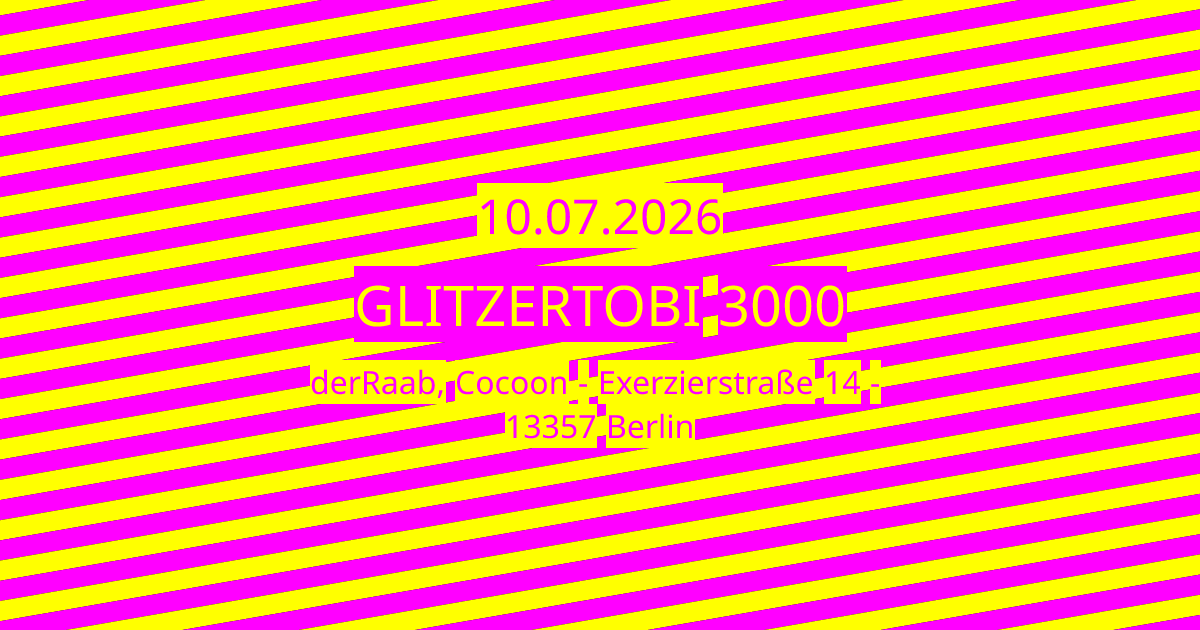
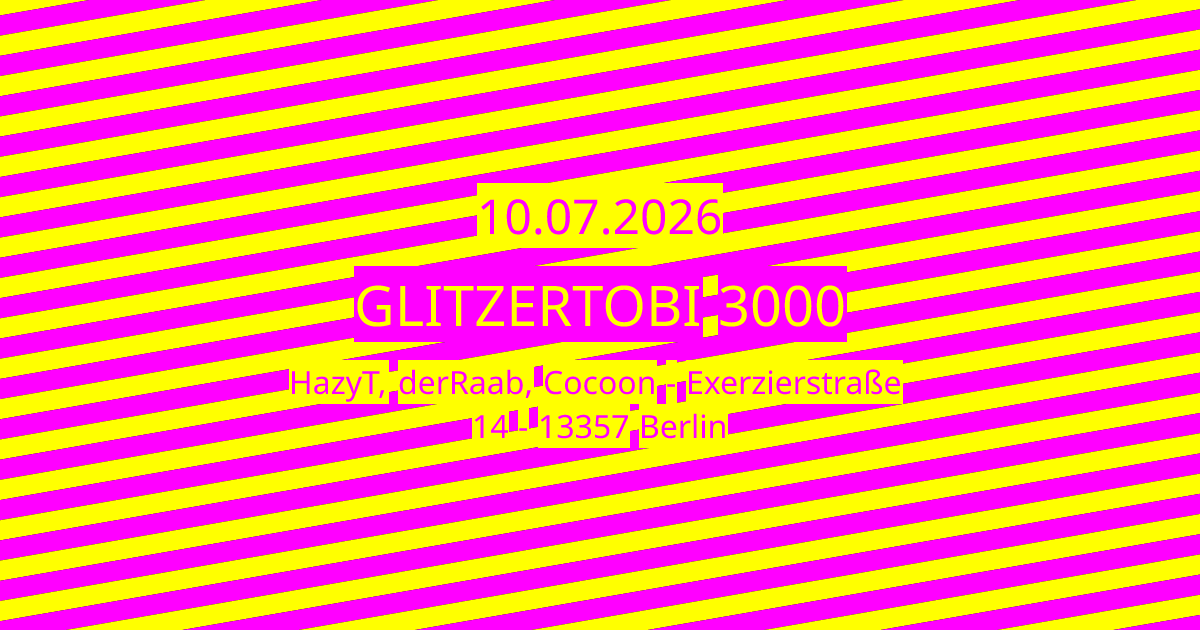
Added HazyT

Changed region(s): [[0.2467, 0.573, 0.7708, 0.7238]]

diff --git a/docs/index.html b/docs/index.html
@@ -26,13 +26,13 @@
     <meta property="og:description" content="About unicorns and DJ dates. My name is DERRAAB, and I’ve been passionate about electronic music for as long as I can remember.">
     
     <!-- Primary image - 1200x630 (1.91:1 aspect ratio) -->
-    <meta property="og:image" content="https://onlyraab.com/img/social/index-1200x630.jpg?v=1783860174612">
+    <meta property="og:image" content="https://onlyraab.com/img/social/index-1200x630.jpg?v=1784194235014">
     <meta property="og:image:width" content="1200">
     <meta property="og:image:height" content="630">
     <meta property="og:image:type" content="image/jpeg">
     
     <!-- Secondary image - 600x600 (square aspect ratio) -->
-    <meta property="og:image" content="https://onlyraab.com/img/social/index-600x600.jpg?v=1783860174612">
+    <meta property="og:image" content="https://onlyraab.com/img/social/index-600x600.jpg?v=1784194235014">
     <meta property="og:image:width" content="600">
     <meta property="og:image:height" content="600">
     <meta property="og:image:type" content="image/jpeg">
@@ -44,7 +44,7 @@
     <!-- Twitter will use og:image, og:title, og:description automatically -->
     
     <!-- Load the compiled LESS styles -->
-    <link rel="stylesheet" href="index.css?v=1783860174612">
+    <link rel="stylesheet" href="index.css?v=1784194235014">
 </head>
 <body class="body--index">
     <header>
@@ -79,7 +79,7 @@
         <section class="all-dates" id="all-dates">
 <section class="dates">
 <a href="dates/2026-07-14.html" class="date" data-iso-date="2026-07-14"><h3>14.07.2026</h3><h4>://Sektdatscha</h4><p>Sommer, Sonne, Semetschki - Durakstammtisch @ ://about blank</p><h5>DJs:</h5><ul><li>vanX</li><li>Tiger</li><li>Lena Brumby</li><li>derRaab</li></ul><h5>Location:</h5><p>://about blank - Markgrafendamm 24c - Berlin</p></a>
-<a href="dates/2026-07-10.html" class="date" data-iso-date="2026-07-10"><h3>10.07.2026</h3><h4>Glitzertobi 3000</h4><h5>DJs:</h5><ul><li>derRaab</li></ul><h5>Location:</h5><p>Cocoon - Exerzierstraße 14  - 13357 Berlin</p></a>
+<a href="dates/2026-07-10.html" class="date" data-iso-date="2026-07-10"><h3>10.07.2026</h3><h4>Glitzertobi 3000</h4><h5>DJs:</h5><ul><li>HazyT</li><li>derRaab</li></ul><h5>Location:</h5><p>Cocoon - Exerzierstraße 14  - 13357 Berlin</p></a>
 <a href="dates/2026-05-30.html" class="date" data-iso-date="2026-05-30"><h3>30.05.2026</h3><h4>Burny Sage Boat Float 5000</h4><h5>DJs:</h5><ul><li>derRaab</li></ul><h5>Location:</h5><p>Sage Beach Boat Ride</p></a>
 <a href="dates/2026-05-21.html" class="date" data-iso-date="2026-05-21"><h3>21.05.2026</h3><h4>:// Sektgarten x mondrian & friends</h4><p>17 h @ Sektgarten</p><h5>DJs:</h5><ul><li>Tiger</li><li>ichy</li><li>derRaab</li></ul><h5>Location:</h5><p>://about blank - Markgrafendamm 24c - Berlin</p></a>
 <a href="dates/2026-04-11.html" class="date" data-iso-date="2026-04-11"><h3>11.04.2026</h3><h4>Staub</h4><h5>DJs:</h5><ul><li>derRaab</li><li>Ryba</li><li>Pascal Hetzel</li><li>Toxido Mask</li><li>Michael Rosmann</li><li>Projekt Gestalten</li><li>Eluzid</li></ul><h5>Location:</h5><p>://about blank - Markgrafendamm 24c - Berlin</p></a>
@@ -284,6 +284,6 @@
     </footer>
     
     <!-- Load the compiled TypeScript -->
-    <script type="module" src="index.js?v=1783860174612"></script>
+    <script type="module" src="index.js?v=1784194235014"></script>
 </body>
 </html>

diff --git a/docs/dates/2026-07-10.html b/docs/dates/2026-07-10.html
@@ -14,8 +14,8 @@
     
     <link rel=”canonical” href=”https://onlyraab.com/dates/2026-07-10.html”/>
     <meta name="viewport" content="width=device-width, initial-scale=1.0">
-    <meta name="description" content="Glitzertobi 3000 | 10.07.2026 | derRaab, Cocoon - Exerzierstraße 14  - 13357 Berlin">
-    <meta name="keywords" content="derRaab, Cocoon - Exerzierstraße 14  - 13357 Berlin">
+    <meta name="description" content="Glitzertobi 3000 | 10.07.2026 | HazyT, derRaab, Cocoon - Exerzierstraße 14  - 13357 Berlin">
+    <meta name="keywords" content="HazyT, derRaab, Cocoon - Exerzierstraße 14  - 13357 Berlin">
     <meta name="author" content="OnlyRaab.com | derRaab">
     <title>Glitzertobi 3000 | 10.07.2026</title>
 
@@ -23,22 +23,22 @@
     <meta property="og:type" content="website">
     <meta property="og:url" content="https://onlyraab.com/dates/2026-07-10.html"/>
     <meta property="og:title" content="Glitzertobi 3000">
-    <meta property="og:description" content="Glitzertobi 3000 | 10.07.2026 | derRaab, Cocoon - Exerzierstraße 14  - 13357 Berlin">
+    <meta property="og:description" content="Glitzertobi 3000 | 10.07.2026 | HazyT, derRaab, Cocoon - Exerzierstraße 14  - 13357 Berlin">
     
     <!-- Primary image - 1200x630 (1.91:1 aspect ratio) -->
-    <meta property="og:image" content="https://onlyraab.com/img/social/dates/2026-07-10.png?v=1783860174612">
+    <meta property="og:image" content="https://onlyraab.com/img/social/dates/2026-07-10.png?v=1784194235014">
     <meta property="og:image:width" content="1200">
     <meta property="og:image:height" content="630">
     <meta property="og:image:type" content="image/png">
     
-    <meta property="og:site_name" content="Glitzertobi 3000 | 10.07.2026 | derRaab, Cocoon - Exerzierstraße 14  - 13357 Berlin">
+    <meta property="og:site_name" content="Glitzertobi 3000 | 10.07.2026 | HazyT, derRaab, Cocoon - Exerzierstraße 14  - 13357 Berlin">
     
     <!-- Twitter will use Open Graph fallbacks -->
     <meta name="twitter:card" content="summary_large_image">
     <!-- Twitter will use og:image, og:title, og:description automatically -->
     
     <!-- Load the compiled LESS styles -->
-    <link rel="stylesheet" href="/index.css?v=1783860174612">
+    <link rel="stylesheet" href="/index.css?v=1784194235014">
 </head>
 <body class="body--date">
     <header>
@@ -59,7 +59,7 @@
             <a class="scroll-down" href="#details">▼ Details ▼</a>
         </section>
         <section class="details" id="details">
-<div class="date" data-iso-date="2026-07-10"><h3>10.07.2026</h3><h4>Glitzertobi 3000</h4><h5>DJs:</h5><ul><li>derRaab</li></ul><h5>Location:</h5><p>Cocoon - Exerzierstraße 14  - 13357 Berlin</p></div>
+<div class="date" data-iso-date="2026-07-10"><h3>10.07.2026</h3><h4>Glitzertobi 3000</h4><h5>DJs:</h5><ul><li>HazyT</li><li>derRaab</li></ul><h5>Location:</h5><p>Cocoon - Exerzierstraße 14  - 13357 Berlin</p></div>
         </section>
     </article>
     <footer>
@@ -72,6 +72,6 @@
         <div></div>
     </footer>
     <!-- Load the compiled TypeScript -->
-    <script type="module" src="/index.js?v=1783860174612"></script>
+    <script type="module" src="/index.js?v=1784194235014"></script>
 </body>
 </html>
